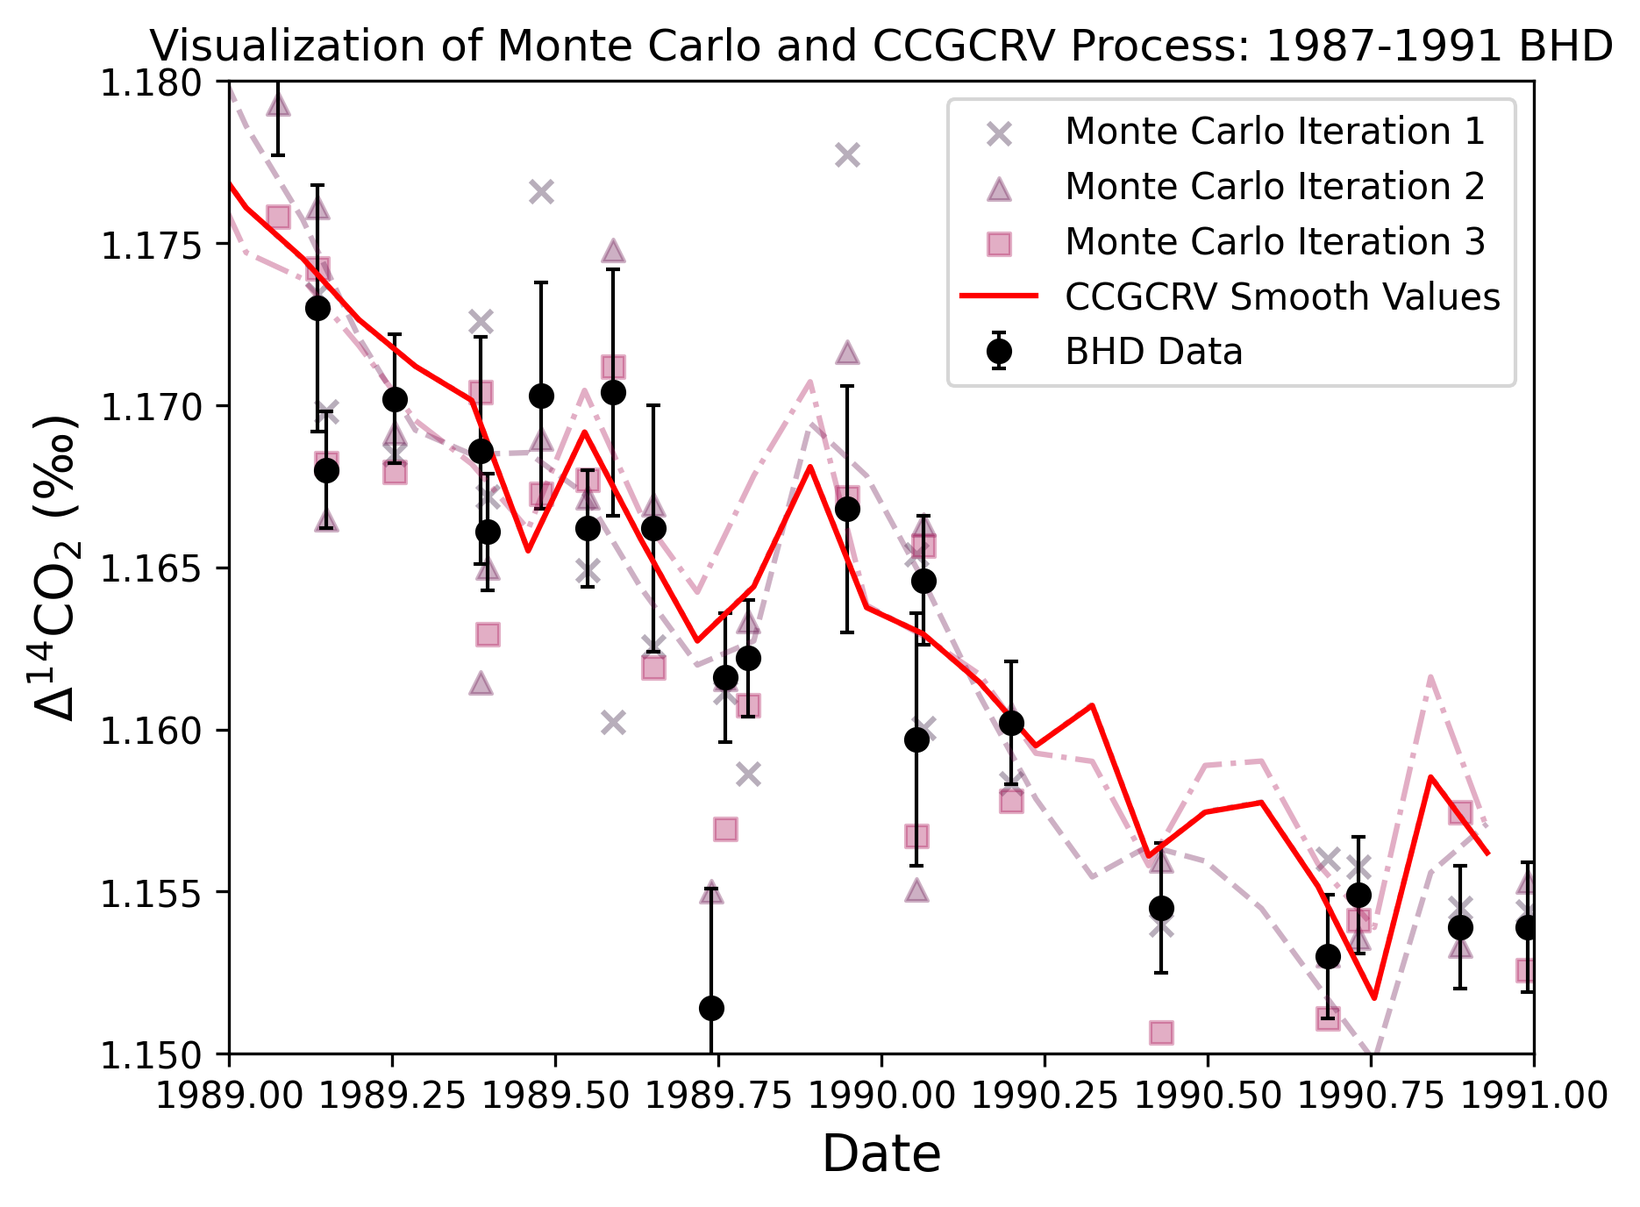
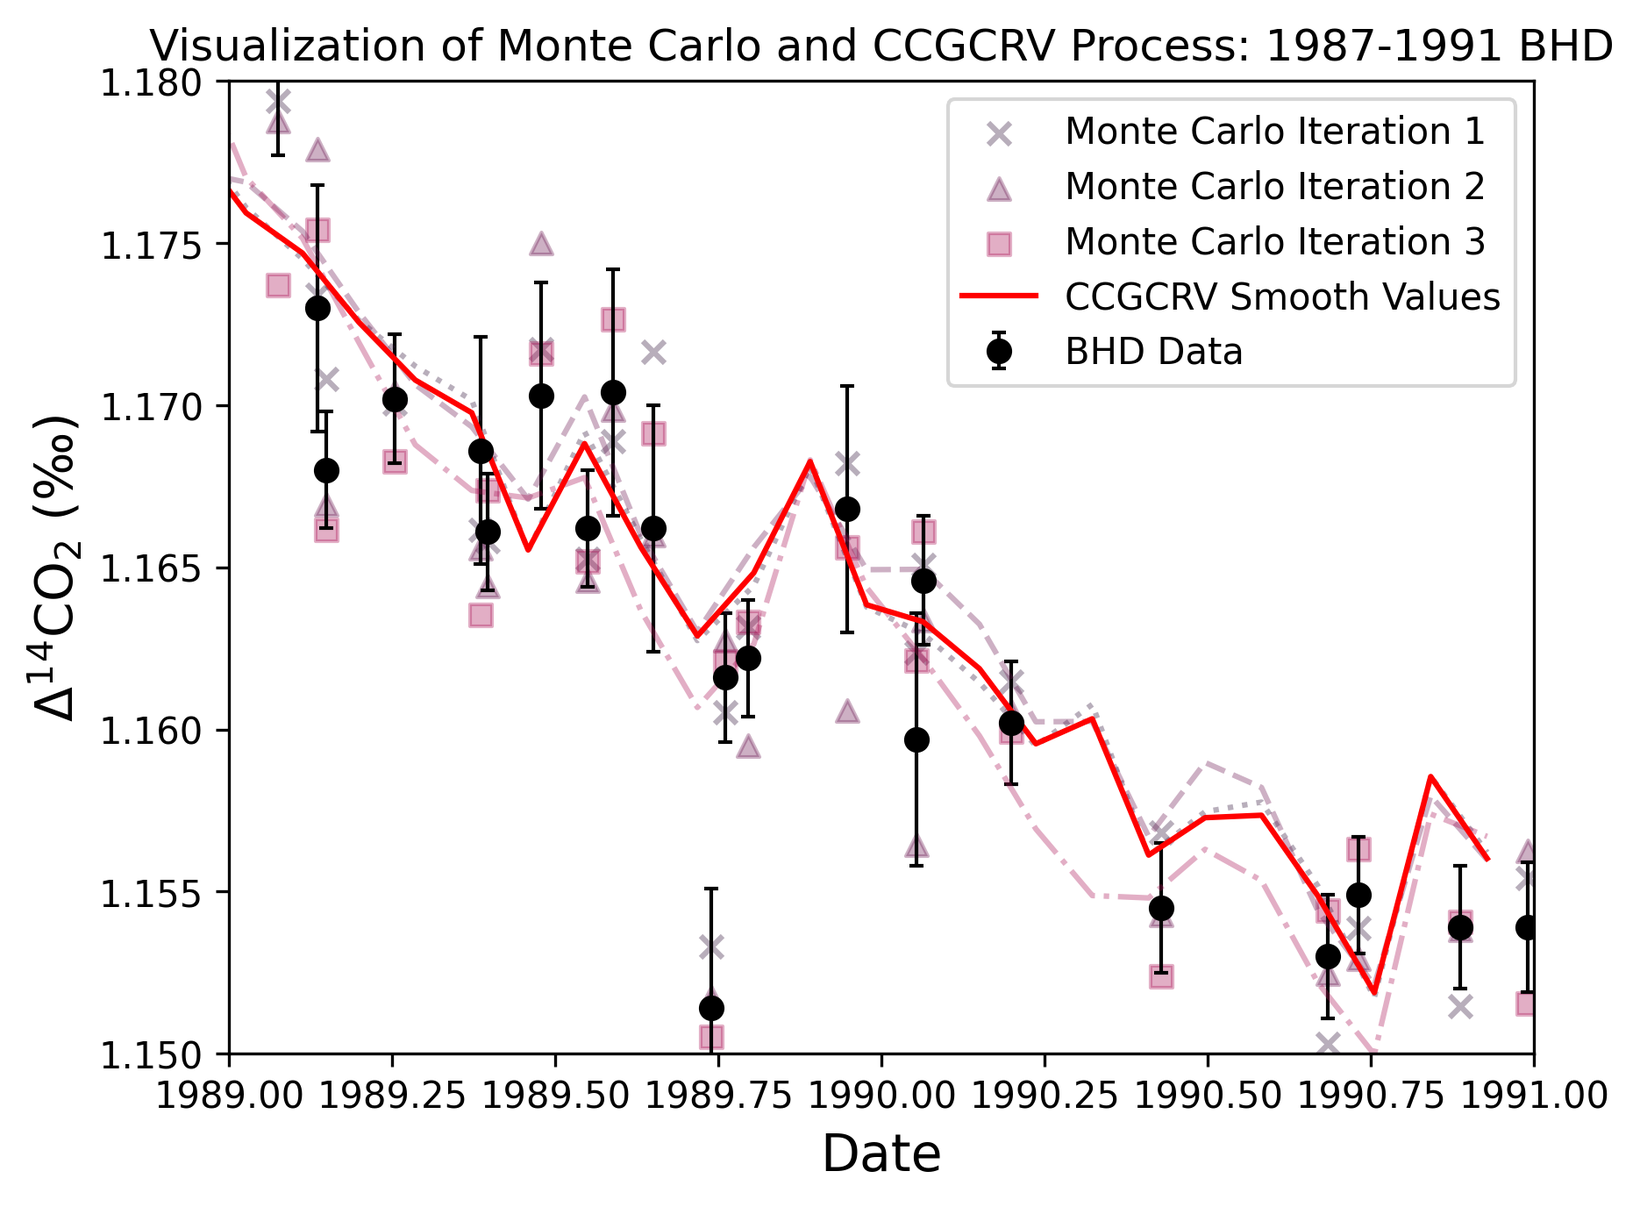
updating figures and tex

diff --git a/Interlab_Comparison/scripts/intercomparison_viz_1.py b/Interlab_Comparison/scripts/intercomparison_viz_1.py
@@ -5,50 +5,60 @@ import matplotlib.gridspec as gridspec
 from Pre_Processing_UniMagallanes import combine_Magallanes
 from intercomparison_math_1_SUPERCEDED import flaskvn
 import seaborn as sns
-from intercomparison_math_1_SUPERCEDED import ansto, rrl, sio_nwt3, sio_nwt4, rrl_nwt3, rrl_nwt4, y1, y1_average, y1_1sigma, y2, y2_average, y2_1sigma, y3, y3_average, y3_1sigma, y4, y4_average, y4_1sigma
-from intercomparison_math_1_SUPERCEDED import naoh1, flask1, naoh_means1, flask_means1, naoh_means2, flask_means2, fake_x1, fake_x2, naoh2, flask2
+from intercomparison_math_2_scipy import ansto, rrl, sio_nwt3, sio_nwt4, rrl_nwt3, rrl_nwt4, y1, y1_average, y1_1sigma, y2, y2_average, y2_1sigma, y3, y3_average, y3_1sigma, y4, y4_average, y4_1sigma
+from intercomparison_math_2_scipy import naoh1, flask1, naoh_means1, flask_means1, naoh_means2, flask_means2, fake_x1, fake_x2, naoh2, flask2
 import pandas as pd
 size1 = 5
 colors = sns.color_palette("rocket", 6)
 colors2 = sns.color_palette("mako", 6)
-seshadri = ['#c3121e', '#0348a1', '#ffb01c', '#027608', '#0193b0', '#9c5300', '#949c01', '#7104b5']
+
+farbe_bhd = '#0868ac'
+farbe_sio = '#43a2ca'
+farbe_ansto = '#bae4bc'
+farbe_maga = '#7bccc4'
+
+
 # </editor-fold>
 
 # <editor-fold desc="SIO v Rafter">
 """
+
 SIO/LLNL V Rafter Plot
+
+
+
 """
 fig = plt.figure(4, figsize=(16.1, 10))
 gs = gridspec.GridSpec(4, 4)
-gs.update(wspace=.5, hspace=.5)
+gs.update(wspace=.35, hspace=.5)
 
 xtr_subsplot = fig.add_subplot(gs[0:2, 0:2])
-plt.errorbar(rrl_nwt3['Decimal_date'], rrl_nwt3['D14C'], yerr=rrl_nwt3['D14C_err'], fmt='o', color=colors2[3], ecolor='black', elinewidth=1, capsize=2, label='RRL NWT3')
-plt.axhline(y=y3_average, color='black', linestyle='-')
-plt.axhspan((y3_average-y3_1sigma), (y3_average+y3_1sigma), facecolor=colors2[4], alpha=0.3)
+plt.errorbar(rrl_nwt3['Decimal_date'], rrl_nwt3['D14C'], yerr=rrl_nwt3['D14C_err'], fmt='o', color=farbe_bhd, ecolor=farbe_bhd, elinewidth=1, capsize=2, label='RRL NWT3')
+plt.axhline(y=y3_average, color=farbe_bhd, linestyle='-')
+plt.axhspan((y3_average-y3_1sigma), (y3_average+y3_1sigma), facecolor=farbe_bhd, alpha=0.3)
 plt.ylabel('\u0394$^1$$^4$CO$_2$ (\u2030)', fontsize=14)  # label the y axis
-plt.xlabel('Date of Measurement', fontsize=14)  # label the y axis
+# plt.xlabel('Date of Measurement', fontsize=14)  # label the y axis
 plt.legend()
 
 plt.ylim(30,55)
 
 xtr_subsplot = fig.add_subplot(gs[2:4, 0:2])
-plt.errorbar(rrl_nwt4['Decimal_date'], y4, yerr=rrl_nwt4['D14C_err'], fmt='o', color=colors2[4], ecolor='black', elinewidth=1, capsize=2, label='RRL NWT4')
-plt.axhline(y=y4_average, color='black', linestyle='-')
-plt.axhspan((y4_average-y4_1sigma), (y4_average+y4_1sigma), facecolor=colors2[5], alpha=0.3)
+plt.errorbar(rrl_nwt4['Decimal_date'], y4, yerr=rrl_nwt4['D14C_err'], fmt='o', color=farbe_bhd, ecolor=farbe_bhd, elinewidth=1, capsize=2, label='RRL NWT4')
+plt.axhline(y=y4_average, color=farbe_bhd, linestyle='-')
+plt.axhspan((y4_average-y4_1sigma), (y4_average+y4_1sigma), facecolor=farbe_bhd, alpha=0.3)
 plt.ylabel('\u0394$^1$$^4$CO$_2$ (\u2030)', fontsize=14)  # label the y axis
 plt.legend()
 plt.ylim(-40,-24)
-plt.xlabel('Date of Measurement', fontsize=14)  # label the y axis
+plt.xlabel('Date', fontsize=14)  # label the y axis
 
 xtr_subsplot = fig.add_subplot(gs[0:2, 2:4])
 plt.ylim(30,55)
 # plt.axhline(y=y3_average, color='black', linestyle='-')
 # plt.axhspan((y3_average-y3_1sigma), (y3_average+y3_1sigma), facecolor=colors2[4], alpha=0.3)
-plt.errorbar(sio_nwt3['Decimal_date'], y1, yerr=sio_nwt3['D14C_err'], fmt='X', color=colors[3], ecolor='black', elinewidth=1, capsize=2, label='LLNL NWT3')
-plt.axhline(y=y1_average, color='black', linestyle='--')
-plt.axhspan((y1_average-y1_1sigma), (y1_average+y1_1sigma), facecolor=colors[4], alpha=0.3)
-plt.xlabel('Measurement #', fontsize=14)  # label the y axis
+plt.errorbar(sio_nwt3['Decimal_date'], y1, yerr=sio_nwt3['D14C_err'], fmt='D', color=farbe_sio, ecolor=farbe_sio, elinewidth=1, capsize=2, label='LLNL NWT3')
+plt.axhline(y=y1_average, color=farbe_sio, linestyle='--')
+plt.axhspan((y1_average-y1_1sigma), (y1_average+y1_1sigma), facecolor=farbe_sio, alpha=0.3)
+# plt.xlabel('Measurement #', fontsize=14)  # label the y axis
 plt.legend()
 
 
@@ -56,9 +66,9 @@ xtr_subsplot = fig.add_subplot(gs[2:4, 2:4])
 plt.ylim(-40,-24)
 # plt.axhline(y=y4_average, color='black', linestyle='-')
 # plt.axhspan((y4_average-y4_1sigma), (y4_average+y4_1sigma), facecolor=colors2[5], alpha=0.3)
-plt.errorbar(sio_nwt4['Decimal_date'], y2, yerr=sio_nwt3['D14C_err'], fmt='X', color=colors[4], ecolor='black', elinewidth=1, capsize=2, label='LLNL NWT4')
-plt.axhline(y=y2_average, color='black', linestyle='--')
-plt.axhspan((y2_average-y2_1sigma), (y2_average+y2_1sigma), facecolor=colors[4], alpha=0.3)
+plt.errorbar(sio_nwt4['Decimal_date'], y2, yerr=sio_nwt3['D14C_err'], fmt='D', color=farbe_sio, ecolor=farbe_sio, elinewidth=1, capsize=2, label='LLNL NWT4')
+plt.axhline(y=y2_average, color=farbe_sio, linestyle='--')
+plt.axhspan((y2_average-y2_1sigma), (y2_average+y2_1sigma), facecolor=farbe_sio, alpha=0.3)
 plt.xlabel('Measurement #', fontsize=14)  # label the y axis
 plt.legend()
 
@@ -66,25 +76,25 @@ plt.savefig('C:/Users/clewis/IdeaProjects/GNS/Interlab_Comparison/output/SIOLLNL
             dpi=300, bbox_inches="tight")
 plt.close()
 
-from intercomparison_math_1_SUPERCEDED import y1_fm, y1_average_fm, y1_1sigma_fm, y2_fm, y2_average_fm, y2_1sigma_fm, y3_fm, y3_average_fm, y3_1sigma_fm, y4_fm, y4_average_fm, y4_1sigma_fm
+from intercomparison_math_2_scipy import y1_fm, y1_average_fm, y1_1sigma_fm, y2_fm, y2_average_fm, y2_1sigma_fm, y3_fm, y3_average_fm, y3_1sigma_fm, y4_fm, y4_average_fm, y4_1sigma_fm
 
 fig = plt.figure(4, figsize=(16.1, 10))
 gs = gridspec.GridSpec(4, 4)
-gs.update(wspace=.5, hspace=.5)
+gs.update(wspace=.35, hspace=.5)
 
 xtr_subsplot = fig.add_subplot(gs[0:2, 0:2])
-plt.errorbar(rrl_nwt3['Decimal_date'], rrl_nwt3['FM'], yerr=rrl_nwt3['FM_err'], fmt='o', color=colors2[3], ecolor='black', elinewidth=1, capsize=2, label='RRL NWT3')
-plt.axhline(y=y3_average_fm, color='black', linestyle='-')
-plt.axhspan((y3_average_fm-y3_1sigma_fm), (y3_average_fm+y3_1sigma_fm), facecolor=colors2[4], alpha=0.3)
+plt.errorbar(rrl_nwt3['Decimal_date'], rrl_nwt3['FM'], yerr=rrl_nwt3['FM_err'], fmt='o', color=farbe_bhd, ecolor=farbe_bhd, elinewidth=1, capsize=2, label='RRL NWT3')
+plt.axhline(y=y3_average_fm, color=farbe_bhd, linestyle='-')
+plt.axhspan((y3_average_fm-y3_1sigma_fm), (y3_average_fm+y3_1sigma_fm), facecolor=farbe_bhd, alpha=0.3)
 plt.ylabel('FM', fontsize=14)  # label the y axis
-plt.xlabel('Date of Measurement', fontsize=14)  # label the y axis
+# plt.xlabel('Date of Measurement', fontsize=14)  # label the y axis
 plt.legend()
 plt.ylim(1.035,1.065)
 
 xtr_subsplot = fig.add_subplot(gs[2:4, 0:2])
-plt.errorbar(rrl_nwt4['Decimal_date'], y4_fm, yerr=rrl_nwt4['FM_err'], fmt='o', color=colors2[4], ecolor='black', elinewidth=1, capsize=2, label='RRL NWT4')
-plt.axhline(y=y4_average_fm, color='black', linestyle='-')
-plt.axhspan((y4_average_fm-y4_1sigma_fm), (y4_average_fm+y4_1sigma_fm), facecolor=colors2[5], alpha=0.3)
+plt.errorbar(rrl_nwt4['Decimal_date'], y4_fm, yerr=rrl_nwt4['FM_err'], fmt='o', color=farbe_bhd, ecolor=farbe_bhd, elinewidth=1, capsize=2, label='RRL NWT4')
+plt.axhline(y=y4_average_fm, color=farbe_bhd, linestyle='-')
+plt.axhspan((y4_average_fm-y4_1sigma_fm), (y4_average_fm+y4_1sigma_fm), facecolor=farbe_bhd, alpha=0.3)
 plt.ylabel('FM', fontsize=14)  # label the y axis
 plt.legend()
 plt.ylim(0.965, 0.985)
@@ -94,10 +104,10 @@ xtr_subsplot = fig.add_subplot(gs[0:2, 2:4])
 # plt.ylim(30,55)
 # plt.axhline(y=y3_average, color='black', linestyle='-')
 # plt.axhspan((y3_average-y3_1sigma), (y3_average+y3_1sigma), facecolor=colors2[4], alpha=0.3)
-plt.errorbar(sio_nwt3['Decimal_date'], y1_fm, yerr=sio_nwt3['FM_err'], fmt='X', color=colors[3], ecolor='black', elinewidth=1, capsize=2, label='LLNL NWT3')
-plt.axhline(y=y1_average_fm, color='black', linestyle='--')
-plt.axhspan((y1_average_fm-y1_1sigma_fm), (y1_average_fm+y1_1sigma_fm), facecolor=colors[4], alpha=0.3)
-plt.xlabel('Measurement #', fontsize=14)  # label the y axis
+plt.errorbar(sio_nwt3['Decimal_date'], y1_fm, yerr=sio_nwt3['FM_err'], fmt='D', color=farbe_sio, ecolor=farbe_sio, elinewidth=1, capsize=2, label='LLNL NWT3')
+plt.axhline(y=y1_average_fm, color=farbe_sio, linestyle='--')
+plt.axhspan((y1_average_fm-y1_1sigma_fm), (y1_average_fm+y1_1sigma_fm), facecolor=farbe_sio, alpha=0.3)
+# plt.xlabel('Measurement #', fontsize=14)  # label the y axis
 plt.legend()
 plt.ylim(1.035,1.065)
 
@@ -106,9 +116,9 @@ xtr_subsplot = fig.add_subplot(gs[2:4, 2:4])
 # plt.ylim(-40,-24)
 # plt.axhline(y=y4_average, color='black', linestyle='-')
 # plt.axhspan((y4_average-y4_1sigma), (y4_average+y4_1sigma), facecolor=colors2[5], alpha=0.3)
-plt.errorbar(sio_nwt4['Decimal_date'], y2_fm, yerr=sio_nwt3['FM_err'], fmt='X', color=colors[4], ecolor='black', elinewidth=1, capsize=2, label='LLNL NWT4')
-plt.axhline(y=y2_average_fm, color='black', linestyle='--')
-plt.axhspan((y2_average_fm-y2_1sigma_fm), (y2_average_fm+y2_1sigma_fm), facecolor=colors[4], alpha=0.3)
+plt.errorbar(sio_nwt4['Decimal_date'], y2_fm, yerr=sio_nwt3['FM_err'], fmt='D', color=farbe_sio, ecolor=farbe_sio, elinewidth=1, capsize=2, label='LLNL NWT4')
+plt.axhline(y=y2_average_fm, color=farbe_sio, linestyle='--')
+plt.axhspan((y2_average_fm-y2_1sigma_fm), (y2_average_fm+y2_1sigma_fm), facecolor=farbe_sio, alpha=0.3)
 plt.xlabel('Measurement #', fontsize=14)  # label the y axis
 plt.legend()
 plt.ylim(0.965, 0.985)
@@ -120,58 +130,40 @@ plt.close()
 
 # <editor-fold desc="ANSTO v Rafter">
 """
+
+
+
+
+
+
 ANSTO v RRL Plot
+
+
+
+
+
+
+
+
+
 """
-plt.errorbar(rrl['Decimal_date'], rrl['D14C'], label='RRL', yerr=rrl['D14C_err'], fmt='o', color=colors2[3], ecolor=colors2[3], elinewidth=1, capsize=2)
-plt.errorbar(ansto['Decimal_date'], ansto['D14C'], label='ANSTO', yerr=ansto['D14C_err'], fmt='D', color=colors[3], ecolor=colors[3], elinewidth=1, capsize=2)
-plt.legend(fontsize=7.5)
-# plt.xlim(1980, 2020)
-# plt.ylim(.95, 1.3)
-plt.xlabel('Date', fontsize=14)
-plt.ylabel('\u0394$^1$$^4$C (\u2030)', fontsize=14)  # label the y axis
-plt.savefig('C:/Users/clewis/IdeaProjects/GNS/Interlab_Comparison/output/ANSTOvRRL.png',
+
+fig = plt.figure(1, figsize=(10,5))
+gs = gridspec.GridSpec(1, 2)
+xtr_subsplot = fig.add_subplot(gs[0:1, 0:1])
+plt.ylabel('\u0394$^1$$^4$CO$_2$ (\u2030)', fontsize=14)  # label the y axis
+plt.errorbar(rrl['Decimal_date'], rrl['D14C'], label='RRL', yerr=rrl['D14C_err'], fmt='o', color=farbe_bhd, ecolor=farbe_bhd, elinewidth=1, capsize=2)
+plt.errorbar(ansto['Decimal_date'], ansto['D14C'], label='ANSTO', yerr=ansto['D14C_err'], fmt='^', color=farbe_ansto, ecolor=farbe_ansto, elinewidth=1, capsize=2)
+plt.legend()
+xtr_subsplot = fig.add_subplot(gs[0:1, 1:2])
+plt.errorbar(combine_Magallanes['Decimal_date'], combine_Magallanes['D14C_x'], label='RRL', yerr=combine_Magallanes['D14C_err_x'], fmt='o', color=farbe_bhd, ecolor=farbe_bhd, elinewidth=1, capsize=2)
+plt.errorbar(combine_Magallanes['Decimal_date'], combine_Magallanes['D14C_y'], label='Uni Magallanes', yerr=combine_Magallanes['D14C_err_y'], fmt='s', color=farbe_maga, ecolor=farbe_maga, elinewidth=1, capsize=2)
+plt.legend()
+
+plt.savefig('C:/Users/clewis/IdeaProjects/GNS/Interlab_Comparison/output/Magallanes_Ansto_comb.png',
             dpi=300, bbox_inches="tight")
 plt.close()
 
-plt.errorbar(rrl['Decimal_date'], rrl['FM'], label='RRL', yerr=rrl['FM_err'], fmt='o', color=colors2[3], ecolor=colors2[3], elinewidth=1, capsize=2)
-plt.errorbar(ansto['Decimal_date'], ansto['FM'], label='ANSTO', yerr=ansto['FM_err'], fmt='D', color=colors[3], ecolor=colors[3], elinewidth=1, capsize=2)
-plt.legend(fontsize=7.5)
-# plt.xlim(1980, 2020)
-# plt.ylim(.95, 1.3)
-plt.xlabel('Date', fontsize=14)
-plt.ylabel('FM', fontsize=14)  # label the y axis
-plt.savefig('C:/Users/clewis/IdeaProjects/GNS/Interlab_Comparison/output/ANSTOvRRL_FM.png',
-            dpi=300, bbox_inches="tight")
-plt.close()
-
-# </editor-fold>
-
-# <editor-fold desc="Magallanes v RRL">
-plt.errorbar(combine_Magallanes['Decimal_date'], combine_Magallanes['D14C_x'], label='RRL', yerr=combine_Magallanes['D14C_err_x'],
-             fmt='D', color=colors2[3], ecolor=colors2[3], elinewidth=1, capsize=2)
-plt.errorbar(combine_Magallanes['Decimal_date'], combine_Magallanes['D14C_y'], label='Uni Magallanes', yerr=combine_Magallanes['D14C_err_y'],
-             fmt='D', color=colors[3], ecolor=colors[3], elinewidth=1, capsize=2)
-plt.legend(fontsize=7.5)
-# plt.xlim(1980, 2020)
-# plt.ylim(.95, 1.3)
-plt.xlabel('Date', fontsize=14)
-plt.ylabel('\u0394$^1$$^4$C (\u2030)', fontsize=14)  # label the y axis
-plt.savefig('C:/Users/clewis/IdeaProjects/GNS/Interlab_Comparison/output/MagallanesvRRL.png',
-            dpi=300, bbox_inches="tight")
-plt.close()
-
-plt.errorbar(combine_Magallanes['Decimal_date'], combine_Magallanes['FM_x'], label='RRL', yerr=combine_Magallanes['FM_err_x'],
-             fmt='D', color=colors2[3], ecolor=colors2[3], elinewidth=1, capsize=2)
-plt.errorbar(combine_Magallanes['Decimal_date'], combine_Magallanes['FM_y'], label='Uni Magallanes', yerr=combine_Magallanes['FM_err_y'],
-             fmt='D', color=colors[3], ecolor=colors[3], elinewidth=1, capsize=2)
-plt.legend(fontsize=7.5)
-# plt.xlim(1980, 2020)
-# plt.ylim(.95, 1.3)
-plt.xlabel('Date', fontsize=14)
-plt.ylabel('FM', fontsize=14)  # label the y axis
-plt.savefig('C:/Users/clewis/IdeaProjects/GNS/Interlab_Comparison/output/MagallanesvRRL_FM.png',
-            dpi=300, bbox_inches="tight")
-plt.close()
 
 # </editor-fold>
 

diff --git a/Interlab_Comparison/scripts/intercomparison_math_2_scipy.py b/Interlab_Comparison/scripts/intercomparison_math_2_scipy.py
@@ -86,55 +86,55 @@ names = [a, b, c, d, e, f, g, h]
 for item in names:
     print(item)
 
-# # <editor-fold desc="Flask v NaOH Method Intercomparison">
-# """
-# Shown below are intercomparisons between GNS internally:
-# Method Intercomparison: NaOH v Flask for CO2 measurements.
-#
-# An initial method intercomparison from my remote work shows that there is a difference between the two groups. I'm going to
-# expand this analysis the entire dataset I have on hand of BHD and see if there is a difference...
-# """
-# # I'm adding in some extra intercomparisons from GNS,
-# # Cape Grim vs BHD intercomparison
-# # NaOH v Flask Intercomparison.
-#
-# """
-# This two lines below show the initial intercomparison.
-# """
-#
-# flaskvn = pd.read_excel(r'H:\Science\Datasets\FlaskvNaOH.xlsx', skiprows=3).dropna(subset = 'D14C_flask')  # import heidelberg data
-# f = intercomparison_ttest(flaskvn['D14C_flask'], flaskvn['D14C_NaOH'], 'Flask v NaOH @ Baring Head', 'paired')
-#
-# """
-# Updated intercomparison
-# """
-# bhd = pd.read_excel(r'H:\Science\Datasets\BHD_14CO2_datasets_20211013.xlsx')  # import Baring Head data
-# bhd = bhd.loc[(bhd['DELTA14C_ERR'] > 0)]                                          # filter out all data where the errors are less than zero
-# bhd1 = bhd.loc[(bhd['DEC_DECAY_CORR'] > 1984) & (bhd['DEC_DECAY_CORR'] < 1993)]   # grab only data that is between 1984 and 1993
-# bhd2 = bhd.loc[(bhd['DEC_DECAY_CORR'] > 2012)]                                    # then grab data that is after 2012 (we're removing the intermediate period)
-#
-# naoh1 = bhd1.loc[(bhd1['METH_COLL'] == 'NaOH_static')]
-# flask1 = bhd1.loc[(bhd1['METH_COLL'] == 'Whole_air')]
-# naoh2 = bhd2.loc[(bhd2['METH_COLL'] == 'NaOH_static')]
-# flask2 = bhd2.loc[(bhd2['METH_COLL'] == 'Whole_air')]
-#
-# n = 10
-# fake_x1 = np.linspace(min(flask1['DEC_DECAY_CORR']), max(naoh1['DEC_DECAY_CORR']), len(bhd['DEC_DECAY_CORR']))  # create arbitrary set of x-values to control output
-# fake_x2 = np.linspace(min(flask2['DEC_DECAY_CORR']), max(flask2['DEC_DECAY_CORR']), len(bhd['DEC_DECAY_CORR']))  # create arbitrary set of x-values to control output
-# trend_naoh1 = monte_carlo_randomization_trend(naoh1['DEC_DECAY_CORR'], fake_x1, naoh1['DELTA14C'], naoh1['DELTA14C_ERR'], 667, n)
-# trend_naoh2 = monte_carlo_randomization_trend(naoh2['DEC_DECAY_CORR'], fake_x2, naoh2['DELTA14C'], naoh2['DELTA14C_ERR'], 667, n)
-# trend_flask1 = monte_carlo_randomization_trend(flask1['DEC_DECAY_CORR'], fake_x1, flask1['DELTA14C'], flask1['DELTA14C_ERR'], 667, n)
-# trend_flask2 = monte_carlo_randomization_trend(flask2['DEC_DECAY_CORR'], fake_x2, flask2['DELTA14C'], flask2['DELTA14C_ERR'], 667, n)
-#
-# naoh_summary = trend_naoh1[2]
-# naoh_means1 = naoh_summary['Means']
-# naoh_summary = trend_naoh2[2]
-# naoh_means2 = naoh_summary['Means']
-# flask_summary = trend_flask1[2]
-# flask_means1 = flask_summary['Means']
-# flask_summary = trend_flask2[2]
-# flask_means2 = flask_summary['Means']
-#
-# f = intercomparison_ttest(naoh_means1, flask_means1, 'Flask v NaOH @ Baring Head, Trended, Part1', 'paired')
-# f = intercomparison_ttest(naoh_means2, flask_means2, 'Flask v NaOH @ Baring Head, Trended, Part2', 'paired')
-# # </editor-fold>
+# <editor-fold desc="Flask v NaOH Method Intercomparison">
+"""
+Shown below are intercomparisons between GNS internally:
+Method Intercomparison: NaOH v Flask for CO2 measurements.
+
+An initial method intercomparison from my remote work shows that there is a difference between the two groups. I'm going to
+expand this analysis the entire dataset I have on hand of BHD and see if there is a difference...
+"""
+# I'm adding in some extra intercomparisons from GNS,
+# Cape Grim vs BHD intercomparison
+# NaOH v Flask Intercomparison.
+
+"""
+This two lines below show the initial intercomparison.
+"""
+
+flaskvn = pd.read_excel(r'H:\Science\Datasets\FlaskvNaOH.xlsx', skiprows=3).dropna(subset = 'D14C_flask')  # import heidelberg data
+f = intercomparison_ttest(flaskvn['D14C_flask'], flaskvn['D14C_NaOH'], 'Flask v NaOH @ Baring Head', 'paired')
+
+"""
+Updated intercomparison
+"""
+bhd = pd.read_excel(r'H:\Science\Datasets\BHD_14CO2_datasets_20211013.xlsx')  # import Baring Head data
+bhd = bhd.loc[(bhd['DELTA14C_ERR'] > 0)]                                          # filter out all data where the errors are less than zero
+bhd1 = bhd.loc[(bhd['DEC_DECAY_CORR'] > 1984) & (bhd['DEC_DECAY_CORR'] < 1993)]   # grab only data that is between 1984 and 1993
+bhd2 = bhd.loc[(bhd['DEC_DECAY_CORR'] > 2012)]                                    # then grab data that is after 2012 (we're removing the intermediate period)
+
+naoh1 = bhd1.loc[(bhd1['METH_COLL'] == 'NaOH_static')]
+flask1 = bhd1.loc[(bhd1['METH_COLL'] == 'Whole_air')]
+naoh2 = bhd2.loc[(bhd2['METH_COLL'] == 'NaOH_static')]
+flask2 = bhd2.loc[(bhd2['METH_COLL'] == 'Whole_air')]
+
+n = 10
+fake_x1 = np.linspace(min(flask1['DEC_DECAY_CORR']), max(naoh1['DEC_DECAY_CORR']), len(bhd['DEC_DECAY_CORR']))  # create arbitrary set of x-values to control output
+fake_x2 = np.linspace(min(flask2['DEC_DECAY_CORR']), max(flask2['DEC_DECAY_CORR']), len(bhd['DEC_DECAY_CORR']))  # create arbitrary set of x-values to control output
+trend_naoh1 = monte_carlo_randomization_trend(naoh1['DEC_DECAY_CORR'], fake_x1, naoh1['DELTA14C'], naoh1['DELTA14C_ERR'], 667, n)
+trend_naoh2 = monte_carlo_randomization_trend(naoh2['DEC_DECAY_CORR'], fake_x2, naoh2['DELTA14C'], naoh2['DELTA14C_ERR'], 667, n)
+trend_flask1 = monte_carlo_randomization_trend(flask1['DEC_DECAY_CORR'], fake_x1, flask1['DELTA14C'], flask1['DELTA14C_ERR'], 667, n)
+trend_flask2 = monte_carlo_randomization_trend(flask2['DEC_DECAY_CORR'], fake_x2, flask2['DELTA14C'], flask2['DELTA14C_ERR'], 667, n)
+
+naoh_summary = trend_naoh1[2]
+naoh_means1 = naoh_summary['Means']
+naoh_summary = trend_naoh2[2]
+naoh_means2 = naoh_summary['Means']
+flask_summary = trend_flask1[2]
+flask_means1 = flask_summary['Means']
+flask_summary = trend_flask2[2]
+flask_means2 = flask_summary['Means']
+
+f = intercomparison_ttest(naoh_means1, flask_means1, 'Flask v NaOH @ Baring Head, Trended, Part1', 'paired')
+f = intercomparison_ttest(naoh_means2, flask_means2, 'Flask v NaOH @ Baring Head, Trended, Part2', 'paired')
+# </editor-fold>

diff --git a/Interlab_Comparison/scripts/heidelberg_intercomparison_wD14C.py b/Interlab_Comparison/scripts/heidelberg_intercomparison_wD14C.py
@@ -232,7 +232,7 @@ ESSENTIALLY WHAT WE ARE DOING:
 
 I'm going to run it once below as a proof of concept with this dataset, and run a plot to show its working.
 """
-n = 10000  # set the amount of times the code will iterate (set to 10,000 once everything is final)
+n = 10  # set the amount of times the code will iterate (set to 10,000 once everything is final)
 cutoff = 667  # FFT filter cutoff
 
 bhd_1986_1991_results_smooth = monte_carlo_randomization_smooth(x1_bhd, my_x_1986_1991, y1_bhd, z1_bhd, cutoff, n)
@@ -273,8 +273,7 @@ means = summary['Means']  # extracts the summary DataFrame
 
 fig = plt.figure(1)
 plt.title('Visualization of Monte Carlo and CCGCRV Process: 1987-1991 BHD')
-plt.errorbar(xtot_bhd, ytot_bhd, label='BHD Data', yerr=ztot_bhd, fmt='o', color='black', ecolor='black', elinewidth=1,
-             capsize=2)
+plt.errorbar(xtot_bhd, ytot_bhd, label='BHD Data', yerr=ztot_bhd, fmt='o', color='black', ecolor='black', elinewidth=1,capsize=2)
 plt.scatter(x1_bhd, data1, color=colors[0], label='Monte Carlo Iteration 1', alpha=0.35, marker='x')
 plt.scatter(x1_bhd, data2, color=colors[1], label='Monte Carlo Iteration 2', alpha=0.35, marker='^')
 plt.scatter(x1_bhd, data3, color=colors[2], label='Monte Carlo Iteration 3', alpha=0.35, marker='s')

diff --git a/Interlab_Comparison/scripts/heidelberg_intercomparison_wFM.py b/Interlab_Comparison/scripts/heidelberg_intercomparison_wFM.py
@@ -232,7 +232,7 @@ ESSENTIALLY WHAT WE ARE DOING:
 
 I'm going to run it once below as a proof of concept with this dataset, and run a plot to show its working.
 """
-n = 10000  # set the amount of times the code will iterate (set to 10,000 once everything is final)
+n = 10  # set the amount of times the code will iterate (set to 10,000 once everything is final)
 cutoff = 667  # FFT filter cutoff
 
 bhd_1986_1991_results_smooth = monte_carlo_randomization_smooth(x1_bhd, my_x_1986_1991, y1_bhd, z1_bhd, cutoff, n)
